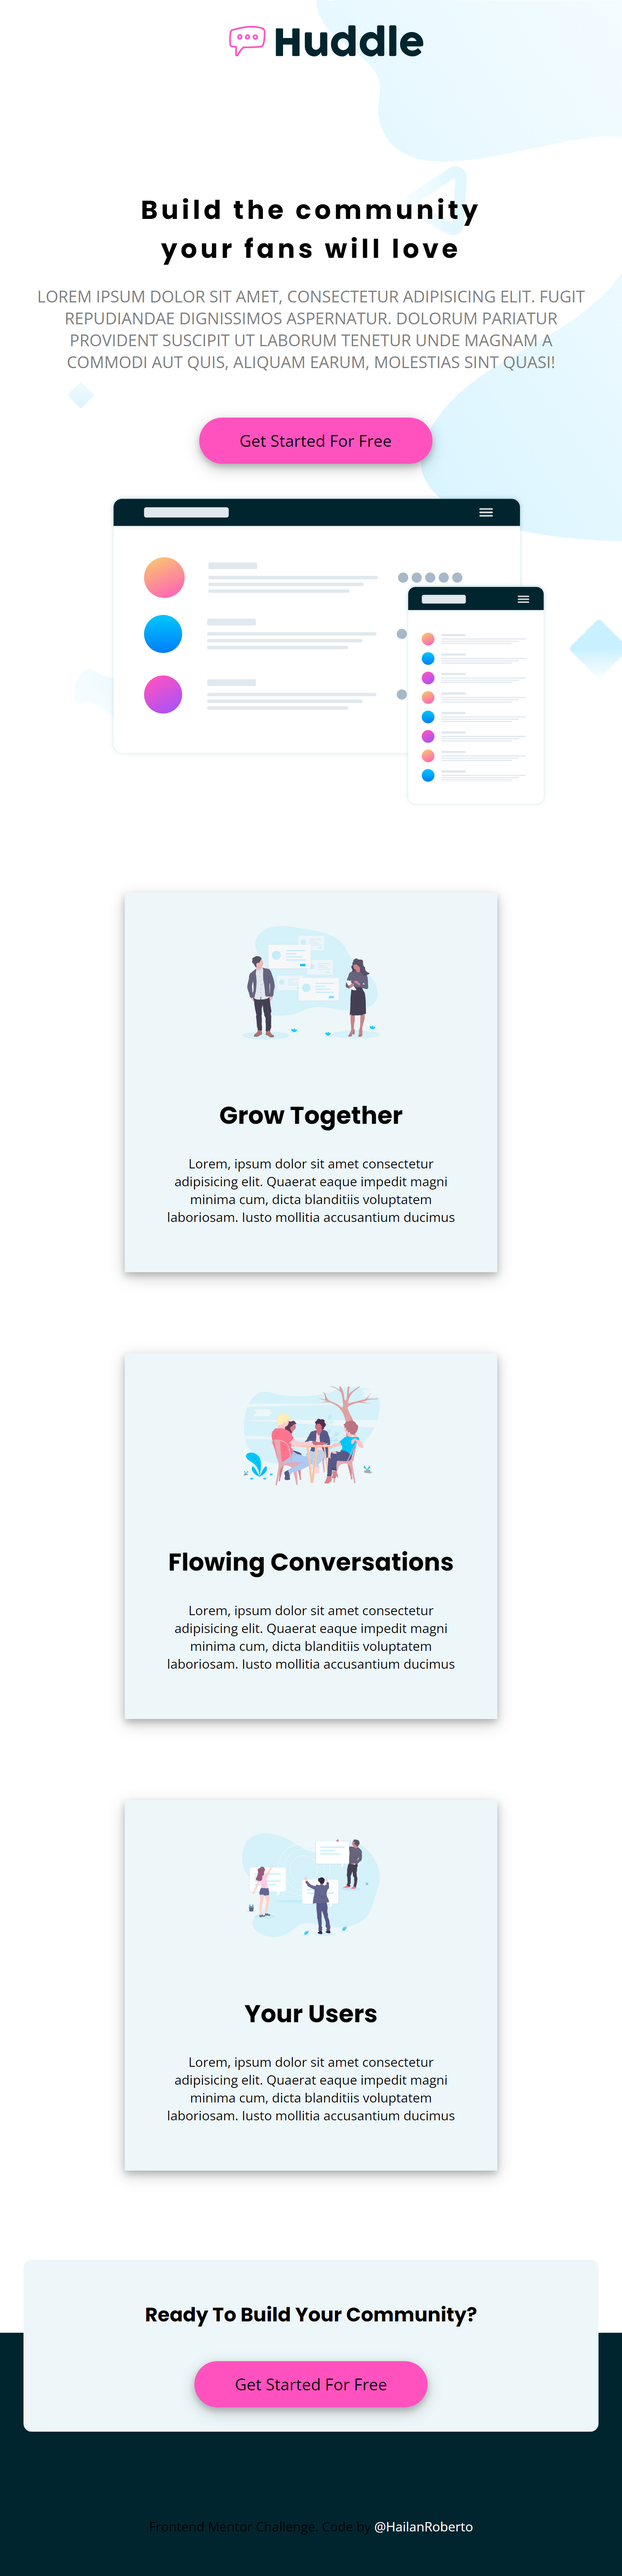
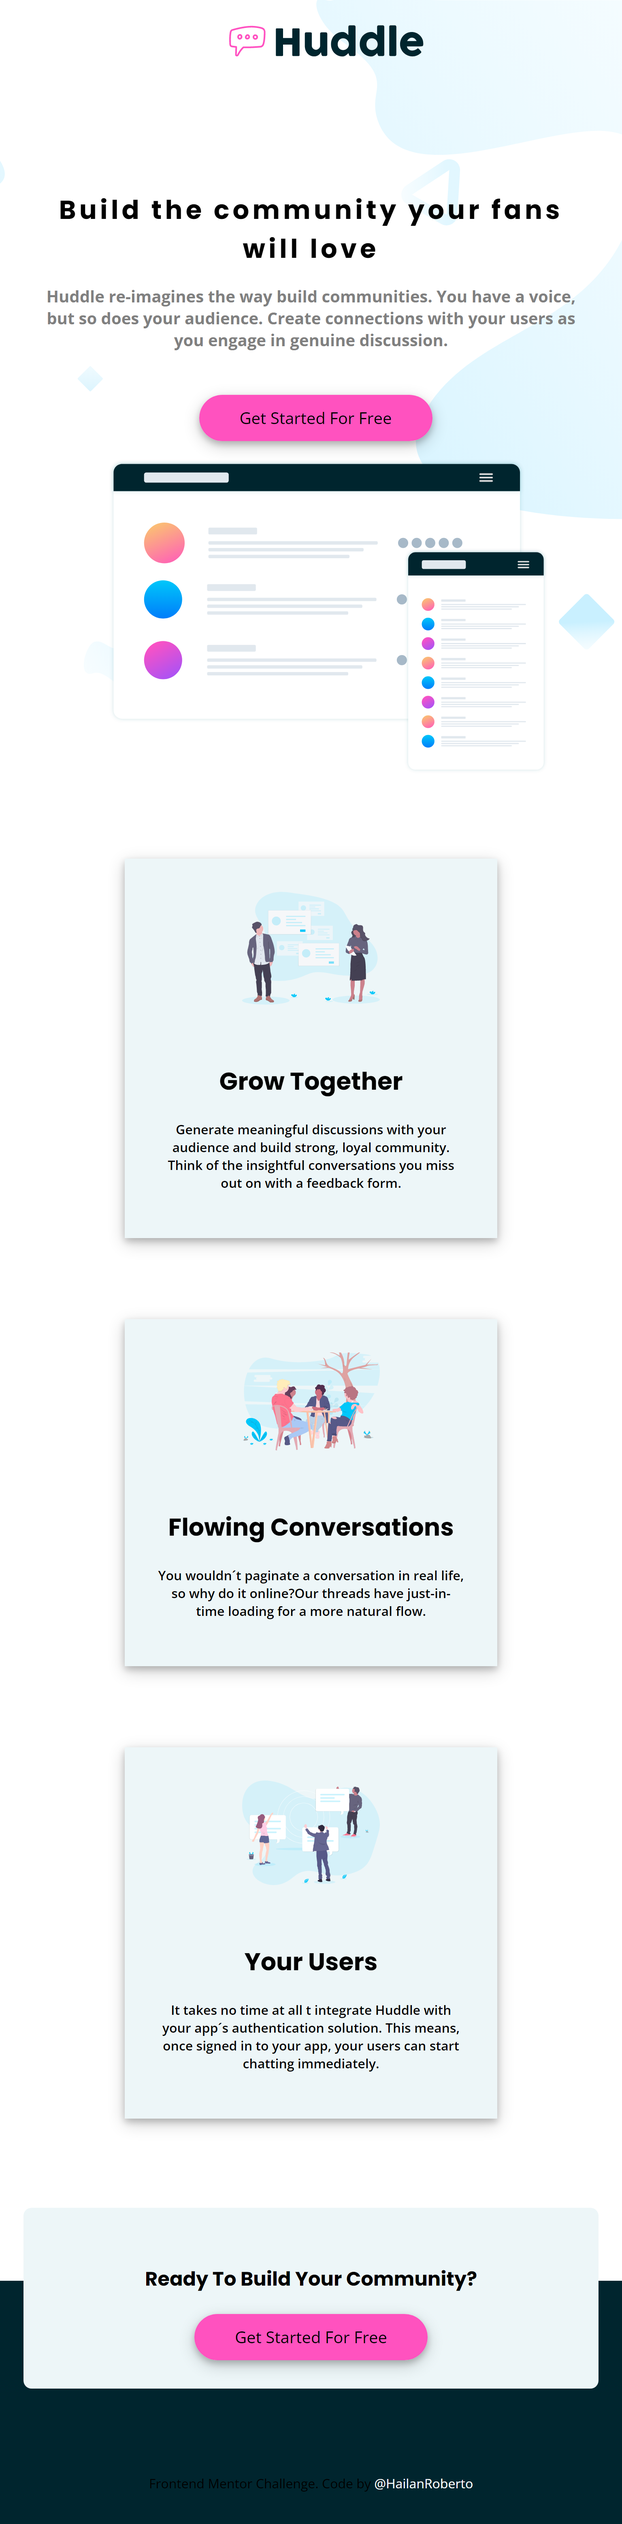
Ajusta header__headline p

diff --git a/index.html b/index.html
@@ -25,9 +25,9 @@
         </nav>
         <header class="header">
             <div class="header__headline">
-                <h1>Build the community <br> your fans will love</h1>
-                <p>Huddle re-imagines the way build communities. You have <br>
-                    a voice, but so does your audience. Create connections with <br>
+                <h1>Build the community your fans will love</h1>
+                <p>Huddle re-imagines the way build communities. You have
+                    a voice, but so does your audience. Create connections with
                     your users as you engage in genuine discussion.</p>
                 <a href="#">Get Started For Free</a>
             </div>
